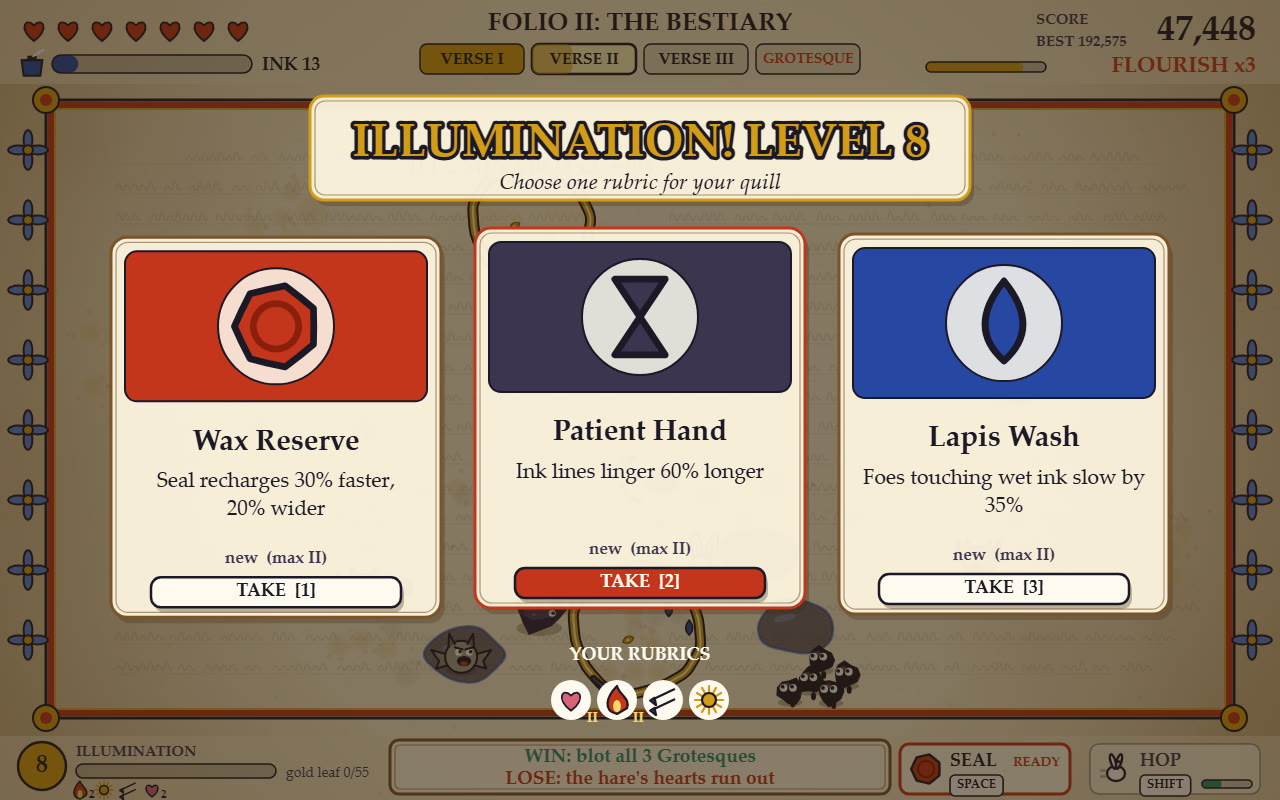
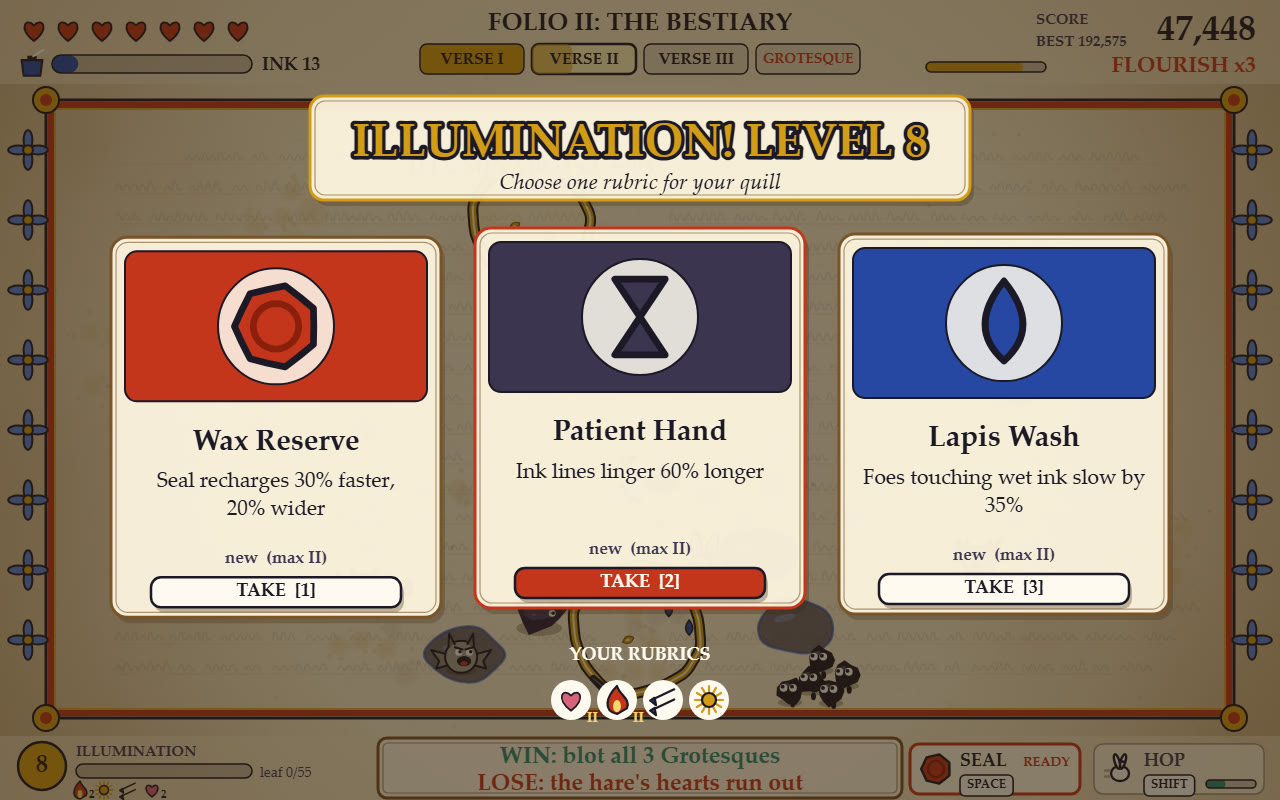
v2: larger win/lose rule in the HUD, live Flourish label, tidier level bar, fresh shots

Changed region(s): [[0.2812, 0.9062, 0.9375, 1.0], [0.1875, 0.9375, 0.25, 0.9688]]

diff --git a/game/src/ui/hud.js b/game/src/ui/hud.js
@@ -88,8 +88,8 @@ function drawBottom(ctx, run, time) {
   ctx.stroke();
   text(ctx, `${run.level}`, 42, y + 31, { size: 24, align: 'center', baseline: 'middle' });
   text(ctx, 'ILLUMINATION', 76, y + 20, { size: 15, color: PALETTE.inkSoft });
-  bar(ctx, 76, y + 28, 200, 14, run.xp / run.xpNext, PALETTE.gold);
-  text(ctx, `gold leaf ${run.xp}/${run.xpNext}`, 286, y + 41, { size: 14, color: PALETTE.inkSoft, weight: 'normal' });
+  bar(ctx, 76, y + 28, 176, 14, run.xp / run.xpNext, PALETTE.gold);
+  text(ctx, `leaf ${run.xp}/${run.xpNext}`, 260, y + 41, { size: 14, color: PALETTE.inkSoft, weight: 'normal' });
   // rubric strip
   let x = 80;
   const owned = RUBRICS.filter((r) => run.rubrics[r.id]);
@@ -101,14 +101,14 @@ function drawBottom(ctx, run, time) {
   }
   // win / lose rule
   const cx = VIEW.w / 2;
-  panel(ctx, cx - 250, y + 4, 500, 54, { radius: 9, shadow: false, fill: 'rgba(255, 247, 226, 0.85)' });
-  text(ctx, 'WIN: blot all 3 Grotesques', cx, y + 26, { size: 19, color: PALETTE.verdigris, align: 'center' });
-  text(ctx, "LOSE: the hare's hearts run out", cx, y + 48, { size: 19, color: PALETTE.vermilion, align: 'center' });
+  panel(ctx, cx - 262, y + 2, 524, 60, { radius: 9, shadow: false, fill: 'rgba(255, 247, 226, 0.85)' });
+  text(ctx, 'WIN: blot all 3 Grotesques', cx, y + 27, { size: 23, color: PALETTE.verdigris, align: 'center' });
+  text(ctx, "LOSE: the hare's hearts run out", cx, y + 54, { size: 23, color: PALETTE.vermilion, align: 'center' });
   // cooldowns
   const sealReady = run.seal.cooldown <= 0;
-  chip(ctx, 'seal', 'SEAL', 'SPACE', 900, y + 8, sealReady ? 1 : 1 - run.seal.cooldown / SEAL.cooldown, PALETTE.vermilion, time);
+  chip(ctx, 'seal', 'SEAL', 'SPACE', 910, y + 8, sealReady ? 1 : 1 - run.seal.cooldown / SEAL.cooldown, PALETTE.vermilion, time);
   const p = run.player;
-  chip(ctx, 'hare', 'HOP', 'SHIFT', 1090, y + 8, p.hopCooldown <= 0 ? 1 : 1 - p.hopCooldown / hopCooldown(run), PALETTE.verdigris, time);
+  chip(ctx, 'hare', 'HOP', 'SHIFT', 1094, y + 8, p.hopCooldown <= 0 ? 1 : 1 - p.hopCooldown / hopCooldown(run), PALETTE.verdigris, time);
 }
 
 function chip(ctx, icon, label, key, x, y, ready, color, time) {
